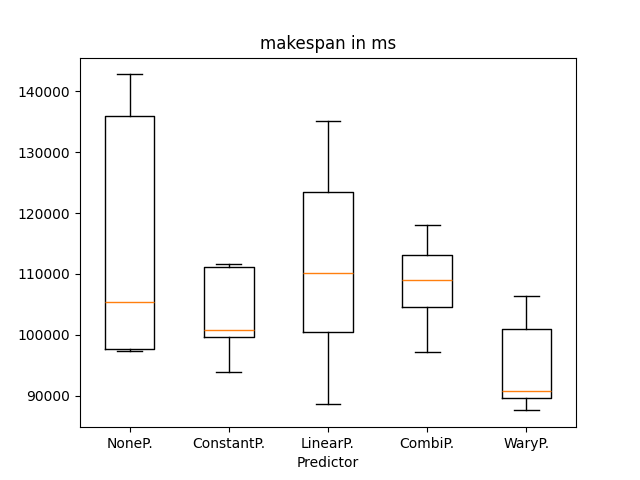
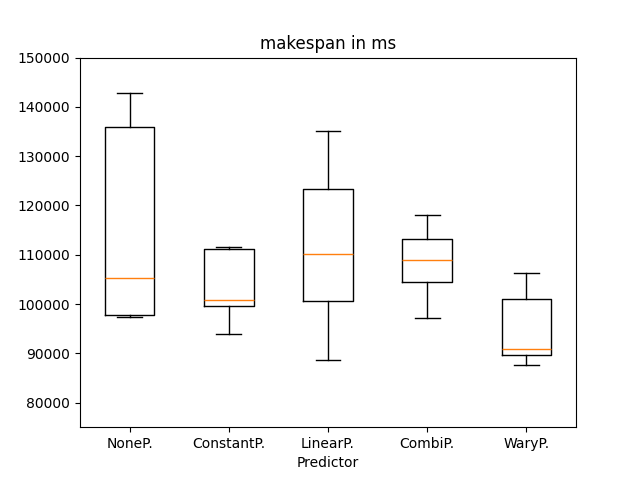
prepare for 2d

diff --git a/experiment2d/summary.py b/experiment2d/summary.py
@@ -39,11 +39,13 @@ def get_file_in_folder(path, extension):
     return files_list
 
 
-def get_makespan_list(foldername):
-    makespanlist = []
+def get_summary(foldername):
     for zipfilename in get_file_in_folder(foldername, 'zip'):
         csv = get_csv_from_zip(zipfilename)
         #print(csv)
+        failed = csv[csv['success'] == False]
+        print(failed)
+        
         txt = get_txt_from_zip(zipfilename)
         if (not isinstance(txt, str)):
             print(f"type mismatch: {zipfilename}")
@@ -57,8 +59,6 @@ def get_makespan_list(foldername):
             print(f"success != input_size {zipfilename}")
             exit(1)
         #print(f"{observations} {makespan}")
-        makespanlist.append( [input_size, makespan] )
-    return makespanlist
 
 
 def analyse_folder(foldername):
@@ -66,45 +66,17 @@ def analyse_folder(foldername):
     if os.path.isfile(foldername):
         print(f"ignore file {foldername}")
     elif os.path.isdir(foldername):
-        makespanlist = get_makespan_list(foldername)
-        #print(makespanlist)
-        #print(foldername.split('\\')[1])
-        df = pd.DataFrame(makespanlist, columns=['Observations',predictor_name])
-        #print(df)
-        return df
+        get_summary(foldername)
 
 
 def main():
     cwd = Path.cwd().parts[-1]
-    print("Makespan analysis -> boxplot\n")
+    print("Makespan analysis -> summary\n")
     if len(sys.argv) < 2:
         print(f"usage: {sys.argv[0]} <pathname(s)> ...")
         exit(1)
-    dataframes = []
     for i in range(1, len(sys.argv)):
-        #print(sys.argv[i])
-        df = analyse_folder( sys.argv[i] )
-        dataframes.append(df)
-
-    #fig = plt.figure()
-    
-    test = []
-    names = []
-    markers = ['o','*','+','x', 'v']
-    for i in range(0, len(dataframes)):
-        cname = dataframes[i].columns[1]
-        #print(dataframes[i]["Observations"])
-        print(dataframes[i][cname])
-        test.append(dataframes[i][cname])
-        names.append(cname.replace("Predictor", "P."))
-
-    plt.boxplot(test, labels=names)
-    plt.title('makespan in ms')
-    plt.xlabel("Predictor")
-    axes = plt.gca()
-    axes.set_ylim([75000,150000])
-    #plt.show()
-    plt.savefig(f"{cwd}-boxplot.png")
+        analyse_folder( sys.argv[i] )
 
 
 if __name__ == "__main__":

diff --git a/experiment2d/scatter.py b/experiment2d/scatter.py
@@ -76,7 +76,7 @@ def analyse_folder(foldername):
 
 def main():
     cwd = Path.cwd().parts[-1]
-    print("Makespan analysis -> boxplot\n")
+    print("Makespan analysis -> scatterplot\n")
     if len(sys.argv) < 2:
         print(f"usage: {sys.argv[0]} <pathname(s)> ...")
         exit(1)
@@ -88,23 +88,18 @@ def main():
 
     #fig = plt.figure()
     
-    test = []
-    names = []
     markers = ['o','*','+','x', 'v']
     for i in range(0, len(dataframes)):
         cname = dataframes[i].columns[1]
         #print(dataframes[i]["Observations"])
-        print(dataframes[i][cname])
-        test.append(dataframes[i][cname])
-        names.append(cname.replace("Predictor", "P."))
+        #print(dataframes[i][cname])
+        plt.scatter(dataframes[i]['Observations'], dataframes[i][cname], marker=markers[i], label=cname)
 
-    plt.boxplot(test, labels=names)
     plt.title('makespan in ms')
-    plt.xlabel("Predictor")
-    axes = plt.gca()
-    axes.set_ylim([75000,150000])
+    plt.xlabel("input size")
+    plt.legend()
     #plt.show()
-    plt.savefig(f"{cwd}-boxplot.png")
+    plt.savefig(f"{cwd}-scatter.png")
 
 
 if __name__ == "__main__":

diff --git a/experiment2c/boxplot.py b/experiment2c/boxplot.py
@@ -101,6 +101,8 @@ def main():
     plt.boxplot(test, labels=names)
     plt.title('makespan in ms')
     plt.xlabel("Predictor")
+    axes = plt.gca()
+    axes.set_ylim([75000,150000])
     #plt.show()
     plt.savefig(f"{cwd}-boxplot.png")
 

diff --git a/experiment2d/README.md b/experiment2d/README.md
@@ -1,0 +1,4 @@
+- Production Setup
+- Input size = 1 .. 50
+- Repetitions = 1
+
